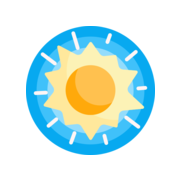
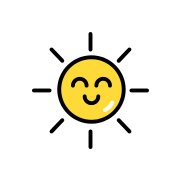
.\static\
new favicons

diff --git a/index.js b/index.js
@@ -72,20 +72,22 @@ app.get("/", (req, res) => {
 })
 
 app.post("/register_me", (req, res) => {
-    const name = req.body.name
-    const password = req.body.password
-    const login = req.body.login
+    const data = [req.body.name, req.body.login, req.body.password]
 
     MongoDB.connect((err) => {
         const collection = MongoDB.db("sunshine-database").collection("users")
 
-        collection.insertOne({name, password, login}).then(() => {
-            res.render('success', {name})
-        }).catch(err => {
-            console.log(err)
-        })
+        collection.insertOne({name: data[0], login: data[1], password: data[2]})
+        .then(() => {
+            res.render('success', {
+                name: data[0]
+            })
 
-        MongoDB.close();
+            MongoDB.close()
+        })
+        .catch((reason) => {
+            throw reason
+        })
     })
 })
 
